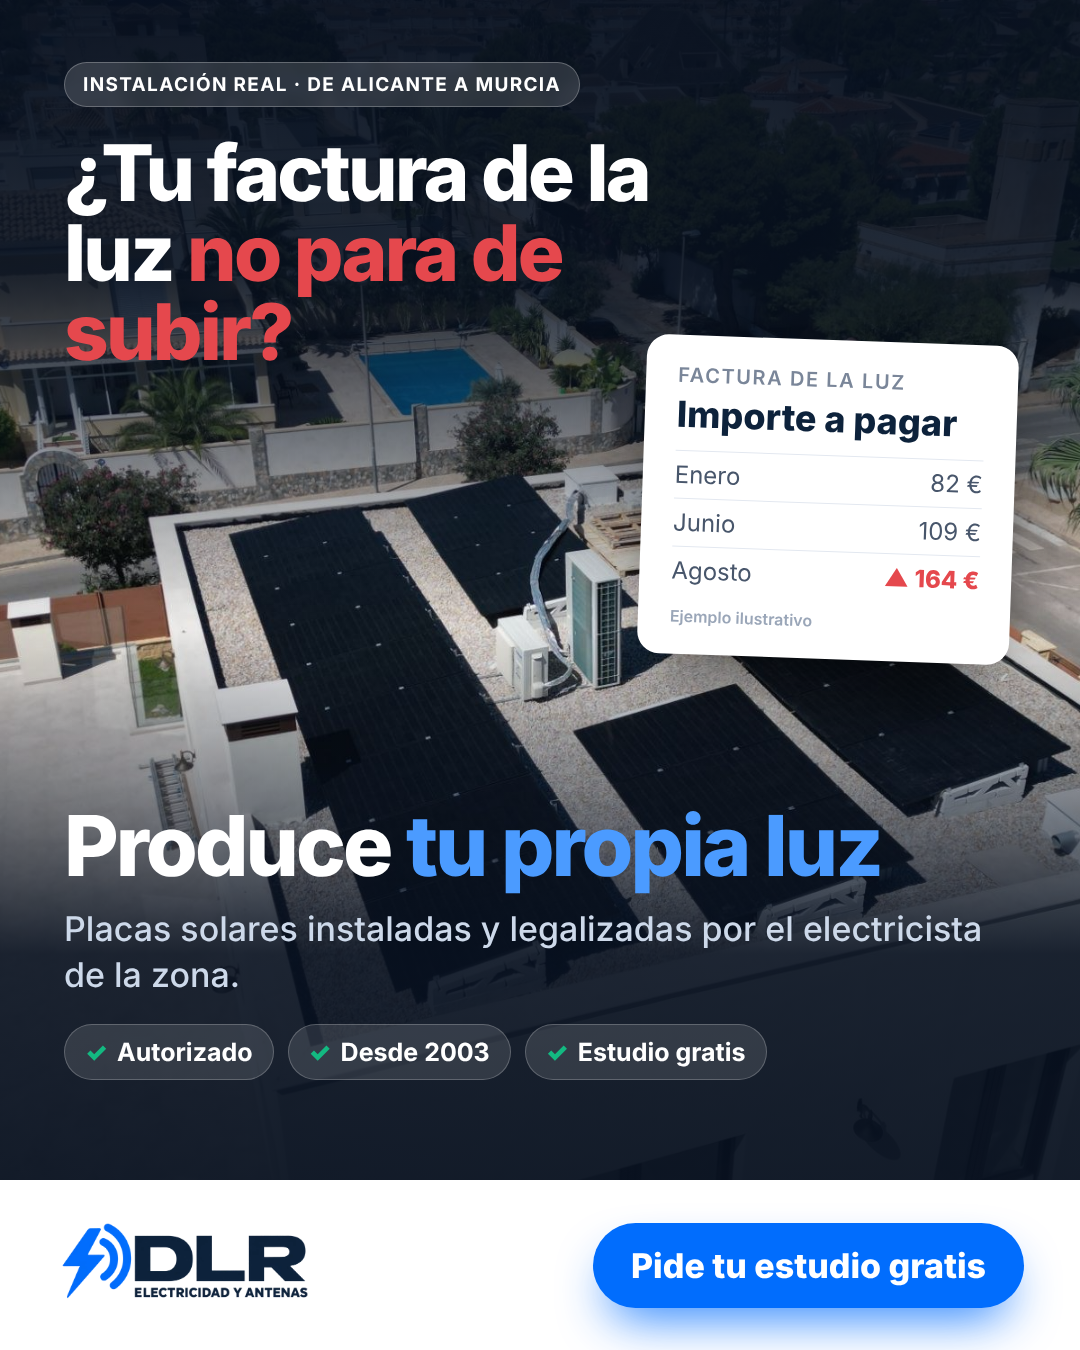
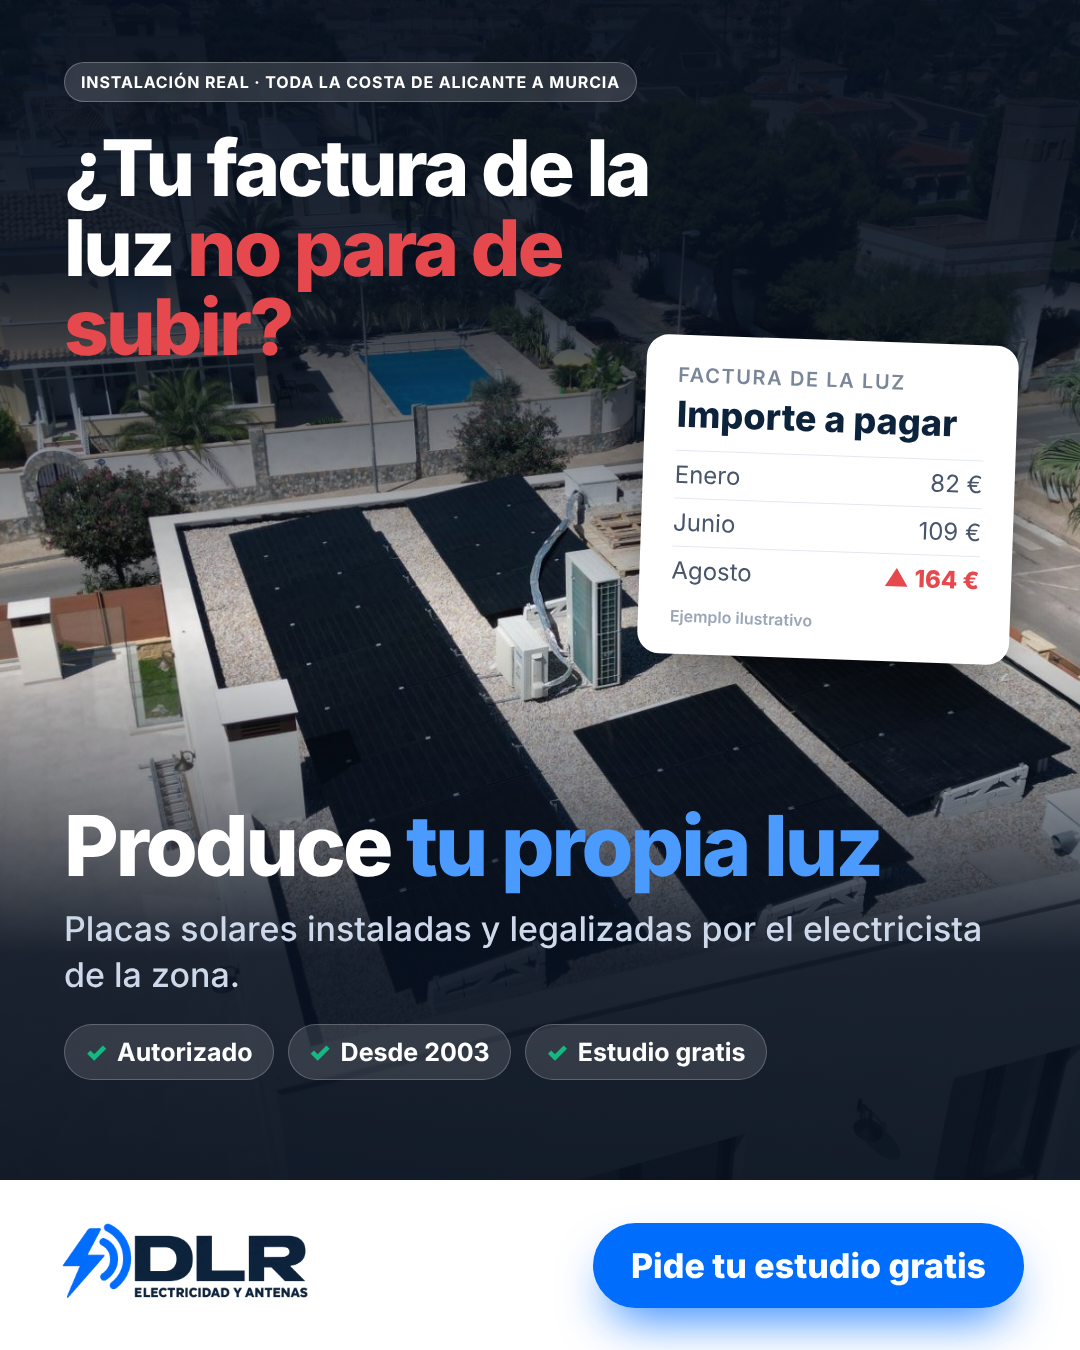
Rótulo del creativo: toda la costa de Alicante a Murcia
Claude-Session: https://claude.ai/code/session_017AvAik93sUVWJxraJ37MoT

Changed region(s): [[0.0611, 0.0311, 0.6111, 0.28], [0.1528, 0.1244, 0.1833, 0.1556]]

diff --git a/campanas/placas-solares/fuente/creativos-foto.html b/campanas/placas-solares/fuente/creativos-foto.html
@@ -15,8 +15,8 @@ h1{color:#fff;font-weight:850;letter-spacing:-.035em;line-height:1.02}
 .rojo{color:var(--rojo)}
 .azulc{color:#4b9bff}
 .etq{display:inline-block;white-space:nowrap;background:rgba(255,255,255,.14);border:1px solid rgba(255,255,255,.26);
-  color:#fff;font-size:19px;font-weight:750;letter-spacing:.07em;text-transform:uppercase;
-  padding:10px 18px;border-radius:999px;backdrop-filter:blur(6px)}
+  color:#fff;font-size:16px;font-weight:750;letter-spacing:.055em;text-transform:uppercase;
+  padding:9px 16px;border-radius:999px;backdrop-filter:blur(6px)}
 .sub{color:#cdd9ea;font-size:34px;line-height:1.35;font-weight:500}
 .factura{position:absolute;background:#fff;color:var(--tinta);border-radius:22px;padding:28px 32px;
   box-shadow:0 40px 80px -24px rgba(0,0,0,.7);transform:rotate(2deg)}
@@ -44,7 +44,7 @@ h1{color:#fff;font-weight:850;letter-spacing:-.035em;line-height:1.02}
   <div class="velo-aba" style="height:720px"></div>
 
   <div style="position:absolute;left:64px;top:62px;width:600px">
-    <span class="etq">Instalación real · De Alicante a Murcia</span>
+    <span class="etq">Instalación real · Toda la costa de Alicante a Murcia</span>
     <h1 style="font-size:78px;margin-top:26px">¿Tu factura de la luz <span class="rojo">no para de subir?</span></h1>
   </div>
 
@@ -77,7 +77,7 @@ h1{color:#fff;font-weight:850;letter-spacing:-.035em;line-height:1.02}
   <div class="velo-aba" style="height:1000px"></div>
 
   <div style="position:absolute;left:64px;top:230px;width:660px">
-    <span class="etq" style="font-size:21px">Instalación real · De Alicante a Murcia</span>
+    <span class="etq" style="font-size:19px">Instalación real · Toda la costa de Alicante a Murcia</span>
     <h1 style="font-size:92px;margin-top:28px">¿Tu factura de la luz <span class="rojo">no para de subir?</span></h1>
   </div>
 
@@ -112,7 +112,7 @@ h1{color:#fff;font-weight:850;letter-spacing:-.035em;line-height:1.02}
   <div class="velo-aba" style="height:620px"></div>
 
   <div style="position:absolute;left:56px;top:50px;width:580px">
-    <span class="etq">Instalación real · De Alicante a Murcia</span>
+    <span class="etq">Instalación real · Toda la costa de Alicante a Murcia</span>
     <h1 style="font-size:66px;margin-top:20px">¿Tu factura de la luz <span class="rojo">no para de subir?</span></h1>
   </div>
 
@@ -143,7 +143,7 @@ h1{color:#fff;font-weight:850;letter-spacing:-.035em;line-height:1.02}
   <img class="foto" src="../fotos/obra-orihuela-cubierta.jpg">
   <div style="position:absolute;inset:0;background:linear-gradient(to right,rgba(7,16,31,.96) 0%,rgba(7,16,31,.88) 48%,rgba(7,16,31,.25) 100%)"></div>
   <div style="position:absolute;left:54px;top:50%;transform:translateY(-50%);width:600px">
-    <span class="etq" style="font-size:16px;padding:8px 15px">Instalación real · De Alicante a Murcia</span>
+    <span class="etq" style="font-size:13px;padding:7px 13px">Instalación real · Toda la costa de Alicante a Murcia</span>
     <h1 style="font-size:52px;margin-top:18px">¿Tu factura de la luz <span class="rojo">no para de subir?</span></h1>
     <h1 style="font-size:44px;margin-top:14px">Produce <span class="azulc">tu propia luz</span></h1>
     <div class="avales" style="margin-top:18px">

diff --git a/campanas/placas-solares/textos-anuncios.md b/campanas/placas-solares/textos-anuncios.md
@@ -100,7 +100,7 @@ Electricistas autorizados en Torrevieja y la Vega Baja desde 2003.
 
 DLR cubre toda la franja costera **de Alicante a Cartagena / Mar Menor**, no solo
 la Vega Baja. En los creativos D el rótulo pasa de «Instalación real · Orihuela
-Costa» a «Instalación real · De Alicante a Murcia».
+Costa» a «Instalación real · Toda la costa de Alicante a Murcia».
 
 Formatos del creativo D: `solar-D-4x5.png` (feed), `solar-D-1x1.png`,
 `solar-D-1911.png` (enlaces y columna derecha) y `solar-D-9x16.png` (stories y reels).
